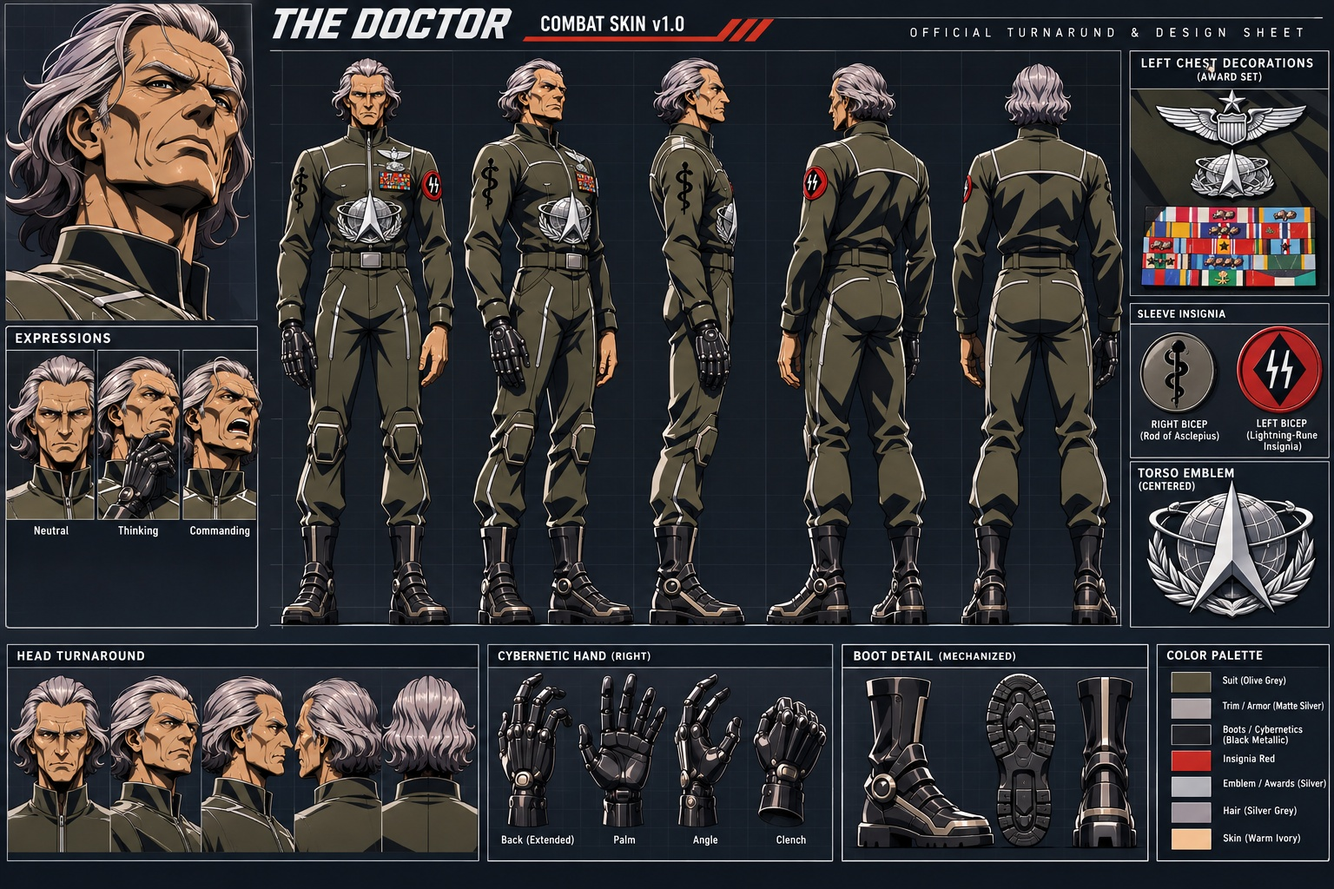
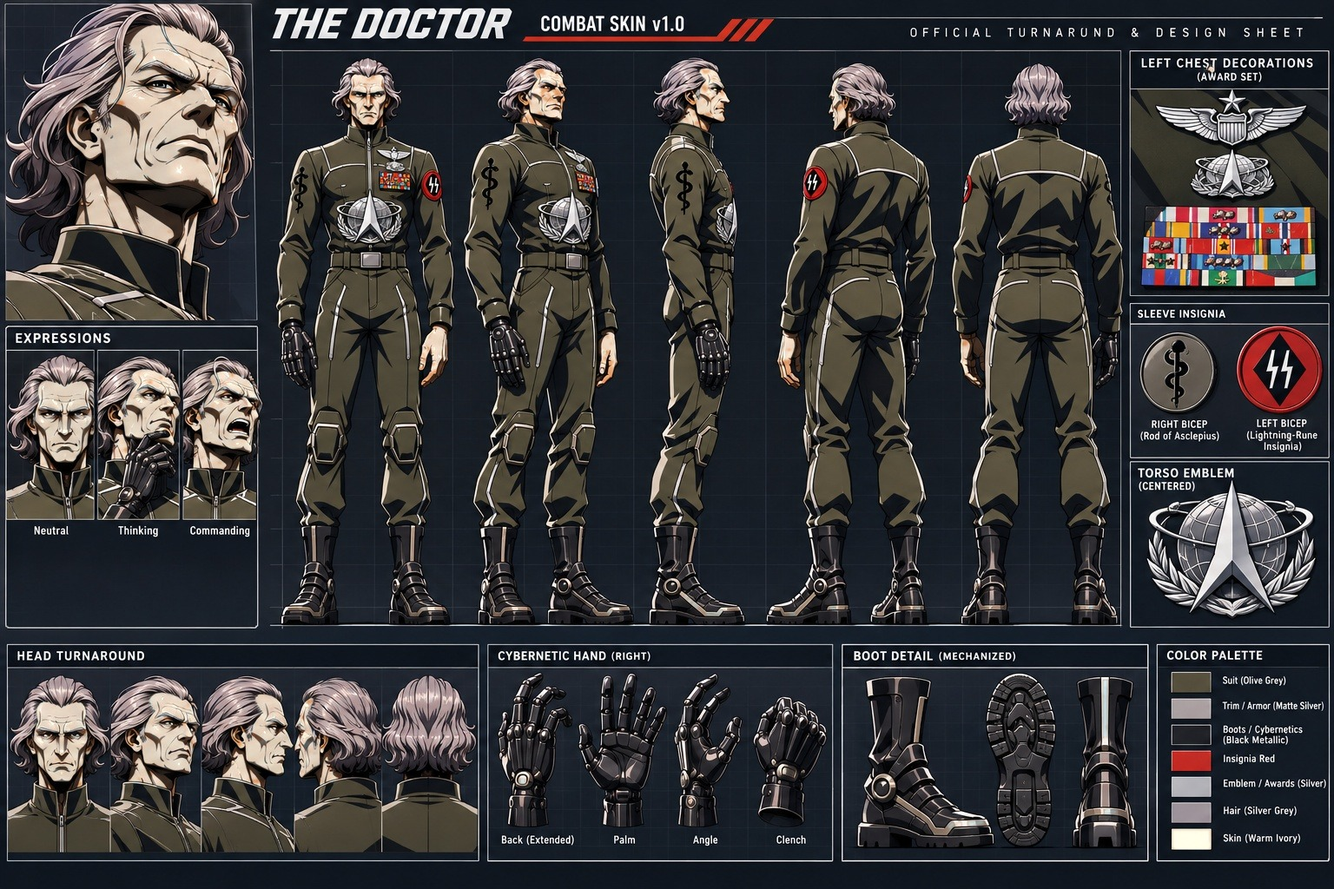
Restyle the saved images to the master style, and add 16:9 versions for video
All 27 saved images were brought back toward the master style by hand, with no new generations. The user approved them.
- Ozzy's 22 sheets and object sheets:
  - one colour correction each, so his skin, locs or balaclava navy, jacket and gold land on their hex codes and the violet casts are gone
  - his blues held where they were
  - backgrounds flat #808080, including the gaps the figures close off
  - near-black lines at ink #030308
  - fine grain where a sheet had none
- Dr. Heyes: his warm tan skin recoloured to pale ivory #EAD8C4 on both sheets. On his turnaround, the suit, hair, background and ink are corrected too.
- Night locations:
  - rain added as thin straight white streaks
  - thin lines tinted toward dark teal #031E1C, and large black areas toward navy #09102E
  - pale areas pulled into the night range, with neon and lamps kept bright

New 1920x1080 16:9 versions, saved beside the 10 images that weren't 16:9 as <name>-16x9.jpg: the sheets padded on flat grey, and the drone view cropped around its centre. The size chart is rebuilt from the corrected sheets. The README's sheet notes, its new Restyled images section and its Video spec are updated to match, and CLAUDE.md now points to the 16:9 versions for video.

Claude-Session: https://claude.ai/code/session_01CQJXrx2pz2qwNwAGmL9DpW

diff --git a/README.md b/README.md
@@ -44,7 +44,7 @@ Every Toonville video is 30 seconds long, 1080p (1920×1080), 16:9, at 24 frames
 - **Shots add up to 30 seconds:** each shot in the shot list has a length in seconds, and together they make the video's 30 seconds.
 - **Screen shots:** live streams and video calls are made at 9:16, as their camera line says, and placed in the 16:9 frame in editing.
 - **Video clips:** a clip that comes out of a video tool at another size or frame rate is conformed to 1920×1080 at 24 fps before it's cut in.
-- **Saved images that aren't 16:9 yet:** each needs a 16:9 version before it goes in a video, with sheets padded out on their own flat grey and scenes cropped. They are the doctor's two sheets and the balaclava and governor chip object sheets (3:2), the hair-up medium shot, the front view and the three close-ups (portrait), and the Crystal Tower's drone view. The size chart and the golden rod's design reference are only references, and stay as they are.
+- **16:9 versions of the saved images:** the saved images that weren't 16:9 each have a 1920×1080 version saved beside them, named `<name>-16x9.jpg`: the doctor's two sheets and the balaclava and governor chip object sheets (from 3:2), the hair-up medium shot, the front view and the three close-ups (from portrait), and the Crystal Tower's drone view. Sheets are padded out at the sides on flat grey (his design sheet on its own navy, with the turnaround's ground line carried across), and the drone view is cropped around its centre, keeping the aircraft and the tower's gold-lit top. Every other saved image is already 16:9 and is scaled to 1920×1080 when it goes in a video. The size chart and the golden rod's design reference are only references, and stay as they are.
 
 ## All-in-one block
 
@@ -198,7 +198,7 @@ Characters: bold black ink #030308, thick tapered contours, thin interiors, hatc
 Outside the edited area, keep the image exactly as it is: same layout, lighting, camera, line weight and colours.
 ```
 
-Some existing sheets drift from the style, with thinner lines, softer shading and a violet cast. An edit that carries this block can come out slightly bolder than the art around it. New sheets generated with the full style block avoid that.
+Some existing sheets drift from the style, with thinner lines and softer shading. Their colour casts have been corrected by hand (see [Restyled images](#restyled-images)), but line weight and shading can't be fixed that way, so an edit that carries this block can come out slightly bolder than the art around it. New sheets generated with the full style block avoid that.
 
 ## Character block
 
@@ -246,13 +246,13 @@ Each outfit gets two turnarounds, one with his golden rod and one without. The b
   - **Face tattoo lettering:** garbled in every view. It reads A, l, l, $, I, n. The left-facing view had it on his left temple, so it was painted out there.
   - **Hair:** the locs are wound into a tight bun. His high top knot is looser, with the locs fanning up and out.
   - **Side-view sneakers:** chunkier than the slim Cortez in the other views.
-  - **Colours:** the jacket reads darker and violet-tinted, so use `#C2C2C2` and the other hex codes listed here.
+  - **Colours:** colour-corrected by hand toward the master style and the hex codes listed here; the jacket still reads a little darker than `#C2C2C2`.
   - **Repaint traces:** close up, his right hand in the back view has a straight left edge, and the front view's jacket panel has a lighter patch where the rod's top diamond was.
 - **Main outfit with jacket, hair down (`SKIN_003`, with the rod):** [`characters/ozzy/ozzy-main-outfit-jacket-hair-down.jpg`](characters/ozzy/ozzy-main-outfit-jacket-hair-down.jpg), the same jacket turnaround with his locs falling loose past his shoulders: front, three-quarter, side view facing right, side view facing left, and back, on mid grey `#808080` (made with the turnaround sheet block, then fixed by hand). It's canon for the jacket outfit with his hair down, the face tattoo on his right temple (bare left side), and the retracted golden rod at his left hip. Exceptions, where the written rules here win:
   - **Golden rod:** painted in by hand, as on his hair-up jacket sheet: at his left hip in the front, left-facing side and back views, hidden by his body in the three-quarter and right-facing side views, with its top diamond in front of the jacket hem.
   - **Face tattoo:** faint marks in the front view, because his face is too small at this sheet size, and garbled in the three-quarter and right-facing views. It reads A, l, l, $, I, n.
   - **Side-view sneakers:** chunkier than the slim Cortez in the other views.
-  - **Colours:** the jacket reads darker and violet-tinted, so use `#C2C2C2` and the other hex codes listed here.
+  - **Colours:** colour-corrected by hand toward the master style and the hex codes listed here; the jacket still reads a little darker than `#C2C2C2`.
   - **Repaint traces:** close up, his right hand in the back view has a straight left edge.
 - **Main outfit with jacket, balaclava (`SKIN_001`, with the rod):** [`characters/ozzy/ozzy-main-outfit-jacket-balaclava.jpg`](characters/ozzy/ozzy-main-outfit-jacket-balaclava.jpg), his main outfit with the jacket open and his balaclava pulled on, so only his eyes show: front, three-quarter, side and back, on mid grey `#808080` (made with the turnaround sheet block, then fixed by hand). It's canon for how the balaclava looks with his main outfit and the retracted golden rod at his left hip. Exceptions, where the written rules here win:
   - **Mirrored:** the generator drew him the wrong way round, so the rod was painted out on his right side and placed at his left hip, and the "$" was moved from his left hand to his right. The "$" has since moved to the web of his left hand, so on this sheet it's on the wrong hand again. The turned views still face the viewer's left, the opposite of his other sheets; with the mask on, nothing on his face is one-sided.
@@ -276,7 +276,7 @@ Each outfit gets two turnarounds, one with his golden rod and one without. The b
   - **"High Power":** both full words show above a lower neckline. In his main outfit, only the tops of the lettering peek above the crew-neck collar.
   - **Turned views:** they face the viewer's left, the opposite of his other sheets; with the mask on, nothing on his face is one-sided.
   - **Expression:** the three-quarter view's brow is sterner than the relaxed neutral look the block asks for.
-  - **Colours:** the navy reads a little lighter than `#262737`, so use the hex codes listed here.
+  - **Colours:** colour-corrected by hand toward the master style and the hex codes listed here.
 - **Medium shot, main outfit, balaclava:** [`characters/ozzy/ozzy-medium-shot-main-outfit-balaclava.jpg`](characters/ozzy/ozzy-medium-shot-main-outfit-balaclava.jpg), a single shot in his main outfit with the jacket and his balaclava on, framed from the waist up and turned toward the viewer's right, on mid grey `#808080` (made with the medium shot block, then fixed by hand). It's canon for the balaclava's offset rows of lettering and his chain. Exceptions, where the written rules here win:
   - **New Era flag:** the generator put it on his right side, so it was painted out. His left side, where it belongs, is turned away.
   - **Golden rod:** he was drawing it from his waistband with his right hand, so it was painted out. His left hip, where it belongs, is turned away, so it doesn't show.
@@ -291,18 +291,18 @@ Each outfit gets two turnarounds, one with his golden rod and one without. The b
   - **Face tattoo lettering:** a little garbled in the front view. It reads A, l, l, $, I, n.
   - **"High Power" at the collar:** reads as just the capitals H and P. The placement is right.
   - **Side-view sneakers:** chunkier than the slim Cortez in the other views.
-  - **Colours:** the sheet has a violet cast, so use the hex codes listed here, not colours picked from the image.
+  - **Colours:** colour-corrected by hand toward the master style and the hex codes listed here, removing the violet cast it had. The Playboy bunny on the T-shirt is still violet; it's white.
 - **Main outfit, hair down (`SKIN_007`, without the rod):** [`characters/ozzy/ozzy-main-outfit-hair-down.jpg`](characters/ozzy/ozzy-main-outfit-hair-down.jpg), his main-outfit turnaround with his locs falling loose past his shoulders: front, three-quarter, side view facing right, side view facing left, and back (made with the turnaround sheet block). It's canon for his hair down, his outfit and where his tattoos sit: the face tattoo on his right temple, the leopard print below his left sleeve, and the tops of "High Power" above the collar in the front view. Exceptions, where the written rules here win:
   - **Front-view face tattoo:** shows as faint marks, because his face is too small at this sheet size for the lettering to read. It reads A, l, l, $, I, n, clearly visible in the three-quarter and right-facing views.
   - **Side-view sneakers:** chunkier than the slim Cortez in the other views.
 - **Main outfit shirtless, hair up (`SKIN_005`, without the rod):** [`characters/ozzy/ozzy-main-outfit-shirtless-hair-up.jpg`](characters/ozzy/ozzy-main-outfit-shirtless-hair-up.jpg), his official shirtless asset: the shirtless tattoo-reference outfit with his hair tied up, in front, three-quarter, side (facing left) and back views. It's canon for his build (with slight ab definition on the front and three-quarter views), his nose rings, and where every tattoo sits. In the side view, "Power" wraps across his left pec, and the leopard print covers his left upper arm in every view. Exceptions, where the written rules here win:
   - **Face tattoo lettering:** garbled in the three-quarter view. It reads A, l, l, $, I, n.
   - **"High Power" lettering:** plainer than his real ornate script. The placement is right.
-  - **Colours:** like his main outfit sheet, it has a violet cast, so use the hex codes listed here.
+  - **Colours:** colour-corrected by hand toward the master style and the hex codes listed here, removing the violet cast it had.
 - **Main outfit shirtless, hair down (`SKIN_004`, without the rod):** [`characters/ozzy/ozzy-main-outfit-shirtless-hair-down.jpg`](characters/ozzy/ozzy-main-outfit-shirtless-hair-down.jpg), the shirtless tattoo-reference outfit with his locs falling loose past his shoulders, in front, three-quarter, side (facing left) and back views (made with the turnaround sheet block). It's canon for his hair down shirtless, his build (with slight ab definition on the front and three-quarter views), his nose rings, and where every tattoo sits: the face tattoo on his right temple, reading A, l, l, $, I, n in the three-quarter view; "High Power" across his upper chest with the Eye of Horus below; and the leopard print on his left upper arm in every view. In the side view, his bare left temple faces the camera and "Power" shows across his chest. Exceptions, where the written rules here win:
   - **Front-view face tattoo:** shows as faint marks, because his face is too small at this sheet size for the lettering to read. It's on the correct temple.
   - **"High Power" lettering:** plainer than his real ornate script, without the swashes beneath. The placement is right.
-  - **Colours:** his skin reads a little lighter and rosier than canon, so use the hex codes listed here.
+  - **Colours:** colour-corrected by hand toward the master style and the hex codes listed here.
 - **Headshots, hair up:** [`characters/ozzy/ozzy-headshots-hair-up.jpg`](characters/ozzy/ozzy-headshots-hair-up.jpg), his head-and-shoulders turnaround in his main outfit: front, three-quarter, side and back, on mid grey `#808080` (made with the headshot sheet block). It's canon for his face, the face tattoo on his right temple (bare left side), his nose rings and chain. Exceptions, where the written rules here win:
   - **Hair:** the locs are wound into a tight bun. His high top knot is looser, with the locs fanning up and out.
   - **"High Power":** both full words show above a lower neckline. In his main outfit, only the tops of the lettering peek above the crew-neck collar.
@@ -315,11 +315,11 @@ Each outfit gets two turnarounds, one with his golden rod and one without. The b
   - **Nose rings:** only one ring shows. He has one in each nostril.
   - **Face tattoo lettering:** a little garbled. It reads A, l, l, $, I, n.
   - **"High Power" at the collar:** reads as just the capitals H and P. The placement is right.
-  - **Colours:** the violet cast of that sheet, so use the hex codes listed here.
+  - **Colours:** colour-corrected by hand toward the master style and the hex codes listed here, as on that sheet. The Playboy bunny is still violet; it's white.
 - **Close-ups, hair up:** [`ozzy-close-up-glare-hair-up.jpg`](characters/ozzy/ozzy-close-up-glare-hair-up.jpg), [`ozzy-close-up-smirk-hair-up.jpg`](characters/ozzy/ozzy-close-up-smirk-hair-up.jpg) and [`ozzy-close-up-calm-hair-up.jpg`](characters/ozzy/ozzy-close-up-calm-hair-up.jpg) in `characters/ozzy/`, his three default expressions as head close-ups, each centred at 1792×2400 on mid grey `#808080`. They're cut at full resolution from the expression row of his first hair-up sheet. The glare and smirk turn toward the viewer's right with the face tattoo on his right temple, and the calm look turns toward the viewer's left, showing his bare left temple. They're canon for his expressions and his face from close up. Exceptions, where the written rules here win:
   - **Nose rings:** the glare and smirk show one small gold stud, and the calm look shows none. He has a small gold ring in each nostril.
   - **Collar:** a white collar band shows at the neck, and "High Power" doesn't show. His main outfit is a black crew-neck T-shirt with the tops of the lettering just above the collar.
-  - **Colours:** they lean rosy and violet, so use the hex codes listed here.
+  - **Colours:** colour-corrected by hand toward the master style and the hex codes listed here, removing the rosy, violet cast they had.
 - **Colours:** skin `#9B7461`, accent `#5381D4` (royal blue, sampled from the cap in his reference photos, and the colour of his jacket lining), locs `#2F1958` (deep indigo-violet, with shadow `#1E083C` and highlight `#422D7A`), gold `#CEAF81` (chain, nose rings and golden rod), jacket `#C2C2C2` (light grey), plasma `#6F00FF` (electric indigo).
 - **Height:** 6'2" (188 cm) barefoot, from the ground to the top of his head, with his locs down. He's about 6 heads tall, counting a head from the top of his head to his chin. His body and proportions are the same in every outfit, masked or not: his clothes, hair, balaclava and what he carries change, but his build doesn't. The camera angle and his shoes can change how tall he looks on screen, never his real height. Barefoot, his top knot reaches about 6'5" (196 cm) and his eye line sits at about 171 cm. His sneakers add about 2.5 cm, so in them he stands about 190.5 cm. All of it is measured on his canon sheets and drawn on the [size chart](#size-chart).
 - **LoRA:** not used for now; see [LoRA training](#lora-training). His 30-image training set stays in [`characters/ozzy/lora/`](characters/ozzy/lora/), with the trigger word `ozzytoon`, in case that changes. Its images show the "$" on his right hand, from before it moved to his left.
@@ -445,10 +445,8 @@ The main antagonist, known as the doctor: the head of the medical wing in the Cr
 - **Colours:** pale ivory skin `#EAD8C4`, a red accent `#CC4747` and an olive grey suit `#5F6352`, all picked by the user. The reference portrait can't give his colours, because its skin is warm, it has a yellow varnish cast, and it has no red in it. The rest come from the palette swatches on his expanded sheet, adopted by the user: silver-grey hair `#9E9199`, matte silver trim `#A99E9F`, black metal `#212128` for his boots and cybernetic hand, and silver `#B2B2B7` for his award decorations and emblem.
 - **Sheets:** in `characters/heyes/`, named `heyes-<outfit>.jpg`. Both were approved in earlier work. The user's original award and insignia references, which aren't stored in this repo, are the authority for fine detail.
   - **Combat Skin turnaround:** [`heyes-combat-skin.jpg`](characters/heyes/heyes-combat-skin.jpg), front, three-quarter, side and back views, full body, on flat grey, at 1536×1024. It's canon for his Combat Skin: his build, face and hair, the suit's details, the boots, the cybernetic right hand and where every marking sits. In every view, each marking and the cybernetic hand are on the correct side. Exceptions, where the written rules here win:
-    - **Skin:** warm tan, not pale ivory `#EAD8C4`.
-    - **Suit:** it reads a little browner than `#5F6352`.
+    - **Colours:** colour-corrected by hand toward the master style and his hex codes: his warm tan skin was recoloured to pale ivory `#EAD8C4`, and the suit pulled toward `#5F6352`.
     - **Left-arm patch:** a black disc inside the red ring, not a black diamond.
-    - **Background:** a slightly darker grey than `#808080`.
   - **Expanded Combat Skin sheet:** [`heyes-combat-skin-expanded.jpg`](characters/heyes/heyes-combat-skin-expanded.jpg), a design sheet and a secondary guide, at 1536×1024. It has:
     - a five-view turnaround, with a back three-quarter view
     - a face close-up and a head turnaround
@@ -458,7 +456,7 @@ The main antagonist, known as the doctor: the head of the medical wing in the Cr
 
     In every view, each marking and the cybernetic hand are on the correct side. Exceptions, where the written rules here win:
     - **Style:** a dark navy background with a title, labels and panel borders, and a more rendered look. The title misspells "turnaround" as "TURNARUND".
-    - **Skin and hair:** warm tan skin, not pale ivory, and in places the hair reads more lavender than `#9E9199`.
+    - **Skin and hair:** the warm tan skin was recoloured by hand to pale ivory `#EAD8C4`, including the palette's skin swatch, though its label still reads "Warm Ivory". In places the hair reads more lavender than `#9E9199`.
     - **Left-arm patch:** a black disc inside the red ring in the figure views. The detail panel shows the canon black diamond.
     - **Rod of Asclepius:** the detail panel puts it on a grey round patch. On the suit it's drawn straight on the sleeve.
     - **Palette:** its suit `#554D3C`, insignia red `#C12A24` and skin `#F1BF91` swatches differ from the user's picks, so use the hex codes listed here. Its other swatches, for trim, boots and cybernetics, emblem and awards, and hair, are adopted as his hex codes.
@@ -474,6 +472,15 @@ For sheets, add this straight after the description, so the insignia, the patch,
 ```
 ; in the front view the black Rod of Asclepius and the cybernetic hand are on his right side, the viewer's left, and the red patch and the award decorations are on his left side, the viewer's right; in the back view the red patch is on the viewer's left and the insignia and the cybernetic hand are on the viewer's right; the three-quarter view and the side view face toward the viewer's right, so his right bicep, the insignia and the cybernetic hand face the camera
 ```
+
+## Restyled images
+
+On 2026-11-06 every saved character sheet, object sheet and location sheet was brought back toward the master style by hand, without regenerating anything, so every hand fix on them stays. The design reference for the golden rod (not canon) and the LoRA training set (not used) were left as they were.
+
+- **Character and object sheets:** one colour correction per sheet, fitted to its background, ink, skin and, where they show, his locs or balaclava navy, his jacket, the gold and his blues, so the cast is removed and they land on their hex codes. The background region is now exactly flat mid grey `#808080`, the darkest lines are ink `#030308`, and sheets that had almost no grain got fine film grain.
+- **Dr. Heyes:** his warm tan skin recoloured to pale ivory `#EAD8C4` on both sheets, with the suit, hair, background and ink corrected on his turnaround. His expanded sheet keeps its dark design-sheet panels.
+- **Night locations:** rain added as thin straight white streaks, thin line work tinted toward dark teal `#031E1C`, large black areas toward navy `#09102E`, and pale areas pulled into night's mid-to-dark range, with neon and lamps kept bright.
+- **What a hand fix can't change:** line weight, hatching and how rendered a sheet looks. Those differences stay listed in each sheet's entry, and only a new generation with the full style block fixes them.
 
 ## Size chart
 
@@ -552,17 +559,15 @@ These are the things every part of the city shares.
 - **Reactive surfaces:** the ice road and the steel towers, which reflect the ice-blue neon, and the gold neon `#E7BF68` at the tops.
 - **Sheets:** in `locations/crystal-tower/`, with each one's prompt and settings in `prompts.txt`.
   - **Establishing shot, night:** [`crystal-tower-wide-night.jpg`](locations/crystal-tower/crystal-tower-wide-night.jpg), a wide low-angle shot from the ice road, looking up the Crystal Tower with the snowy mountain behind it, flanked by towers whose tops glow gold, with angular armoured vehicles parked on the right and a saucer-shaped aircraft crossing the sky (made with the all-in-one block, without the Characters line). It's canon for the tower's look and place, the neon colours, the ice road and the entrance doors. Exceptions, where the written rules here win:
-    - **Rain:** no rain streaks, only faint specks that read like light snow. The city has rain at night.
-    - **Lines:** dark navy, not the night's dark teal `#031E1C`.
-    - **Values:** a little bright for night's mid-to-dark range, so the towers read pale.
+    - **Restyled by hand:** rain added as thin straight white streaks, thin line work tinted toward dark teal `#031E1C`, and the pale towers pulled down into night's mid-to-dark range. The heavier lines stay dark navy.
     - **Snow:** drifts lie on the ground and the ledges, which this entry doesn't call for.
   - **Drone view, night:** [`crystal-tower-drone-night.jpg`](locations/crystal-tower/crystal-tower-drone-night.jpg), the drone view leaving the tower: high above the road, looking down it away from the tower, whose gold-lit top sits at the bottom of the frame, with the city's towers walling both sides, vehicles parked along the road's left side, lamps with warm gold lights along both edges, and a saucer-shaped aircraft over the road. It's canon for the drone view's camera and layout. Exceptions, where the written rules here win:
     - **Towers:** dark and stone-textured. They're steel-white.
     - **Neon:** signs in pink and cyan, with garbled lettering. The towers' neon is ice blue `#6CB5D8` with gold `#E7BF68` at the tops, and nothing in the city carries lettering in prompts.
     - **Tower top:** a block crown lit gold, not the two gold-tipped spires of the establishing shot.
-    - **Lines and texture:** heavy, near-black lines and a gritty texture, not flat cel colour with thin tinted lines.
-    - **Rain:** none. The city has rain at night.
-    - **Shape:** 1760×1344, not 16:9, so it's cropped to 16:9 before it goes in a video.
+    - **Lines and texture:** heavy lines and a gritty texture, not flat cel colour with thin tinted lines. The near-black lines were tinted toward dark teal `#031E1C` by hand, and large black areas toward navy `#09102E`.
+    - **Rain:** added by hand as thin straight white streaks.
+    - **Shape:** 1760×1344, not 16:9. Its 16:9 version, [`crystal-tower-drone-night-16x9.jpg`](locations/crystal-tower/crystal-tower-drone-night-16x9.jpg), is cropped around the centre to 1920×1080, keeping the aircraft and the tower's gold-lit top, and losing the far glow at the end of the road and the lower edge of the tower block.
 
 ### The Crystal Tower's control room
 
@@ -581,7 +586,7 @@ These are the things every part of the city shares.
 - **Reactive surfaces:** the ice-tile road, which mirrors the neon and the tower, and the glass towers.
 - **Sheets:** in `locations/amethyst-path/`, with each one's prompt and settings in `prompts.txt`.
   - **Wide view, night:** [`amethyst-path-wide-night.jpg`](locations/amethyst-path/amethyst-path-wide-night.jpg), at ground level on the path near the far side of the mountain, looking back along it at the Crystal Tower from behind. It's canon for Amethyst Path's look and for the back of the Crystal Tower. Exceptions, where the written rules here win:
-    - **Rain:** none. The city has rain at night.
+    - **Rain:** added by hand as thin straight white streaks.
     - **Clouds:** loose painterly clouds, which the Day line has and the Night line doesn't.
 
 ### The Tall Whites' underground facility

diff --git a/CLAUDE.md b/CLAUDE.md
@@ -17,7 +17,7 @@ Toonville is an anime series. Its visual style is fixed and defined in README.md
 
 - Use a character's short backup description only when the user asks for it, or says their generator is cutting off the full prompt. The short backups still go with the full style block.
 - A character's finished sheets are in `characters/<name>/`, one per outfit and hairstyle, named `<name>-<outfit>-<hairstyle>.jpg` (for Ozzy: `ozzy-main-outfit-jacket-hair-up.jpg`, `ozzy-main-outfit-jacket-hair-down.jpg`, `ozzy-main-outfit-jacket-balaclava.jpg`, `ozzy-main-outfit-jacket-balaclava-no-rod.jpg`, `ozzy-main-outfit-hair-up.jpg`, `ozzy-main-outfit-hair-down.jpg`, `ozzy-main-outfit-shirtless-hair-up.jpg`, `ozzy-main-outfit-shirtless-hair-down.jpg`, `ozzy-headshots-hair-up.jpg`, `ozzy-headshots-hair-down.jpg`, `ozzy-headshots-balaclava.jpg`, `ozzy-medium-shot-main-outfit-hair-up.jpg`, `ozzy-medium-shot-main-outfit-balaclava.jpg`, `ozzy-action-smash-main-outfit-balaclava.jpg`, `ozzy-front-view-main-outfit-hair-up.jpg`, and the close-ups `ozzy-close-up-glare-hair-up.jpg`, `ozzy-close-up-smirk-hair-up.jpg` and `ozzy-close-up-calm-hair-up.jpg`; for Dr. Heyes: `heyes-combat-skin.jpg`, with `heyes-combat-skin-expanded.jpg` as a secondary guide). Object sheets are in `characters/<name>/objects/` (for Ozzy: `ozzy-golden-rod-extended.jpg`, `ozzy-golden-rod-retracted.jpg`, `ozzy-balaclava.jpg` and `ozzy-governor-chip.jpg`). Use them for their look and outfit. Location sheets are in `locations/<location>/`, named `<location>-<view>-<day|night>.jpg`, with each one's prompt and settings in that folder's `prompts.txt` (for the Crystal Tower: `crystal-tower-wide-night.jpg`). Where a sheet disagrees with the written character style block or the hex codes in README.md, the README wins, and the character's entry lists any known differences in the sheet.
-- Every Toonville video is 30 seconds long, 1080p (1920×1080), 16:9, at 24 fps, as README.md's Video spec says. Every image made for a video, from stills, keyframes and storyboards to any turnaround or sheet that appears in one, is 16:9 and finished at 1920×1080.
+- Every Toonville video is 30 seconds long, 1080p (1920×1080), 16:9, at 24 fps, as README.md's Video spec says. Every image made for a video, from stills, keyframes and storyboards to any turnaround or sheet that appears in one, is 16:9 and finished at 1920×1080. Saved images that aren't 16:9 have a 1920×1080 version beside them, named `<name>-16x9.jpg`: use that one in a video.
 - Character sheets (character, turnaround and headshot sheet blocks), object sheets (object sheet block) and single medium shots on a plain background (medium shot and action medium shot blocks) use a flat mid grey `#808080` background by default, as written in their blocks.
 - The story so far is in STORY.md, the lore bible, which holds everything true in the world, including secrets the audience doesn't know yet. When the user shares story ideas, add them there in the same change, and never invent plot, characters or places: ask instead.
 - Follow WORKFLOW.md for the order of work and its checklists:
